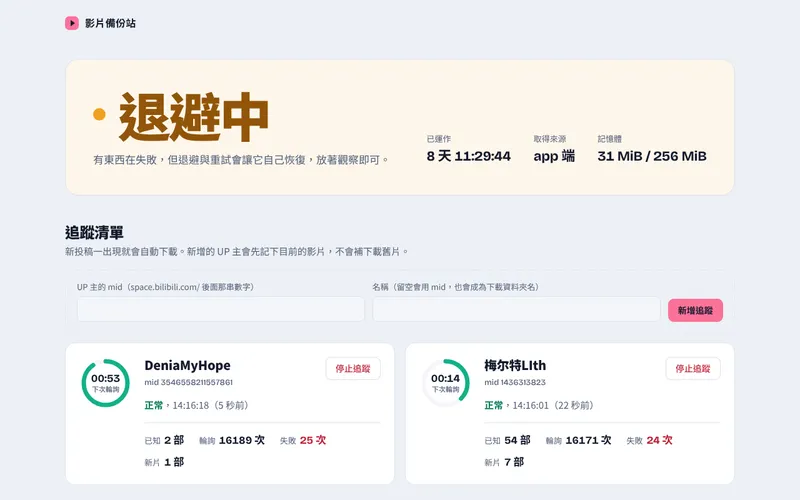
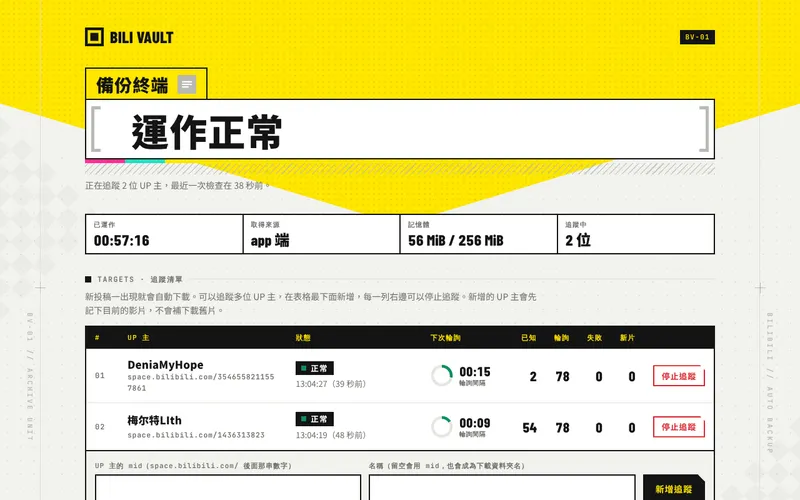
feat(about): 新增影音工坊並調整 Creation 排序
- 新增 Media Forge（影音工坊）卡片，放在最後
- 資料庫學習筆記移到講義類之後
- 更新 Bilibili Detector 與 Twitter 匯流排的新版面截圖

Claude-Session: https://claude.ai/code/session_01Va9VJfbRDm4PGpP3aYzaeV

diff --git a/src/data/about/about.ja.md b/src/data/about/about.ja.md
@@ -30,6 +30,11 @@ title: "私について"
     <span class="creation-title">RabbitMQ 実践講義</span>
     <span class="creation-desc">Spring AMQP でルーティング、DLX、クラスタを解説。</span>
   </a>
+  <a class="creation-card" href="https://static-web-xi20.onrender.com/" target="_blank" rel="noopener noreferrer">
+    <img src="/assets/creations/database-study-notes.webp" alt="データベース学習ノート" width="800" height="500" loading="lazy" decoding="async" />
+    <span class="creation-title">データベース学習ノート</span>
+    <span class="creation-desc">EC の模擬データで九種類の DB を学ぶ面接対策ノート。</span>
+  </a>
   <a class="creation-card" href="https://qr-scanner.clarkliu.com" target="_blank" rel="noopener noreferrer">
     <img src="/assets/creations/qr-scanner.webp" alt="QR Scanner" width="800" height="500" loading="lazy" decoding="async" />
     <span class="creation-title">QR Scanner</span>
@@ -55,10 +60,10 @@ title: "私について"
     <span class="creation-title">Twitter Hub</span>
     <span class="creation-desc">公式 X アカウントの画像をアルバムに整理するツール。</span>
   </a>
-  <a class="creation-card" href="https://static-web-xi20.onrender.com/" target="_blank" rel="noopener noreferrer">
-    <img src="/assets/creations/database-study-notes.webp" alt="データベース学習ノート" width="800" height="500" loading="lazy" decoding="async" />
-    <span class="creation-title">データベース学習ノート</span>
-    <span class="creation-desc">EC の模擬データで九種類の DB を学ぶ面接対策ノート。</span>
+  <a class="creation-card" href="https://media-converter.clarkliu.com/" target="_blank" rel="noopener noreferrer">
+    <img src="/assets/creations/media-converter.webp" alt="Media Forge" width="800" height="500" loading="lazy" decoding="async" />
+    <span class="creation-title">Media Forge</span>
+    <span class="creation-desc">ffmpeg でローカルに切り出し・変換・字幕付けできるツール。</span>
   </a>
 </div>
 

diff --git a/src/data/about/about.zh.md b/src/data/about/about.zh.md
@@ -28,6 +28,11 @@ title: "關於"
     <span class="creation-title">RabbitMQ 實戰講義</span>
     <span class="creation-desc">以 Spring AMQP 為主，涵蓋路由、可靠性、DLX 與叢集。</span>
   </a>
+  <a class="creation-card" href="https://static-web-xi20.onrender.com/" target="_blank" rel="noopener noreferrer">
+    <img src="/assets/creations/database-study-notes.webp" alt="資料庫學習筆記" width="800" height="500" loading="lazy" decoding="async" />
+    <span class="creation-title">資料庫學習筆記</span>
+    <span class="creation-desc">用電商模擬資料練習 PostgreSQL、Redis 等九種資料庫，附面試題。</span>
+  </a>
   <a class="creation-card" href="https://qr-scanner.clarkliu.com" target="_blank" rel="noopener noreferrer">
     <img src="/assets/creations/qr-scanner.webp" alt="QR Scanner" width="800" height="500" loading="lazy" decoding="async" />
     <span class="creation-title">QR Scanner</span>
@@ -53,10 +58,10 @@ title: "關於"
     <span class="creation-title">Twitter 匯流排</span>
     <span class="creation-desc">將官方推特圖片整理成相簿，附追蹤組與圖片壓縮。</span>
   </a>
-  <a class="creation-card" href="https://static-web-xi20.onrender.com/" target="_blank" rel="noopener noreferrer">
-    <img src="/assets/creations/database-study-notes.webp" alt="資料庫學習筆記" width="800" height="500" loading="lazy" decoding="async" />
-    <span class="creation-title">資料庫學習筆記</span>
-    <span class="creation-desc">用電商模擬資料練習 PostgreSQL、Redis 等九種資料庫，附面試題。</span>
+  <a class="creation-card" href="https://media-converter.clarkliu.com/" target="_blank" rel="noopener noreferrer">
+    <img src="/assets/creations/media-converter.webp" alt="影音工坊 Media Forge" width="800" height="500" loading="lazy" decoding="async" />
+    <span class="creation-title">影音工坊 Media Forge</span>
+    <span class="creation-desc">在本機用 ffmpeg 擷取、轉檔、上字幕的影音工具。</span>
   </a>
 </div>
 

diff --git a/src/data/about/about.en.md b/src/data/about/about.en.md
@@ -30,6 +30,11 @@ What's your ideal life? perhaps can you share with me.
     <span class="creation-title">RabbitMQ Handout</span>
     <span class="creation-desc">RabbitMQ with Spring AMQP: routing, DLX, clusters.</span>
   </a>
+  <a class="creation-card" href="https://static-web-xi20.onrender.com/" target="_blank" rel="noopener noreferrer">
+    <img src="/assets/creations/database-study-notes.webp" alt="Database Study Notes" width="800" height="500" loading="lazy" decoding="async" />
+    <span class="creation-title">Database Study Notes</span>
+    <span class="creation-desc">Interview prep for nine databases, with mock data.</span>
+  </a>
   <a class="creation-card" href="https://qr-scanner.clarkliu.com" target="_blank" rel="noopener noreferrer">
     <img src="/assets/creations/qr-scanner.webp" alt="QR Scanner" width="800" height="500" loading="lazy" decoding="async" />
     <span class="creation-title">QR Scanner</span>
@@ -55,10 +60,10 @@ What's your ideal life? perhaps can you share with me.
     <span class="creation-title">Twitter Hub</span>
     <span class="creation-desc">Collects official X/Twitter art into albums.</span>
   </a>
-  <a class="creation-card" href="https://static-web-xi20.onrender.com/" target="_blank" rel="noopener noreferrer">
-    <img src="/assets/creations/database-study-notes.webp" alt="Database Study Notes" width="800" height="500" loading="lazy" decoding="async" />
-    <span class="creation-title">Database Study Notes</span>
-    <span class="creation-desc">Interview prep for nine databases, with mock data.</span>
+  <a class="creation-card" href="https://media-converter.clarkliu.com/" target="_blank" rel="noopener noreferrer">
+    <img src="/assets/creations/media-converter.webp" alt="Media Forge" width="800" height="500" loading="lazy" decoding="async" />
+    <span class="creation-title">Media Forge</span>
+    <span class="creation-desc">Trim, convert and subtitle media locally.</span>
   </a>
 </div>
 
